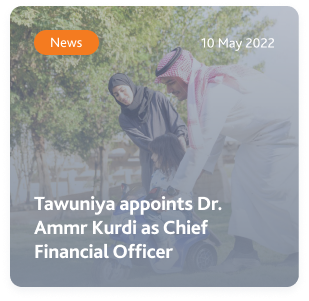
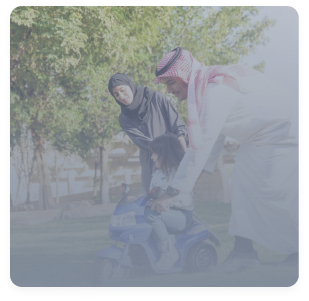
Add files via upload

diff --git a/src/App.js b/src/App.js
@@ -22,7 +22,6 @@ import firstimage from './image/firstimage.png'
 import secondimage from './image/secondimage.png'
 import thirdimage from './image/thirdimage.png'
 import ithra from './image/ithra.png'
-import rarrow from './image/rarrow.png'
 import Tawuniya from './image/Tawuniya.png'
 import  tlogo from './image/tlogo.png'
 import vitality from './image/Vitality.png'
@@ -32,13 +31,15 @@ import twodayago from './image/twodayago.png';
 import twoweekago from './image/twoweekago.png'
 import tenmay from './image/tenmay.png'
 import weekago from './image/weekago.png'
-
+import rarrow from './image/rarrow.png'
 import Listcard from './Components/card';
 import Listcardtwo from './Components/health';
 import Listcardthree from './Components/FAQ';
+import Listcardfive from './Components/webfooter';
 
 import './Components/card.css'
 import './Components/health.css'
+import './Components/webfooter.css'
 
 function App() {
   const card = [{Title:'Public Liability Insurance', Imagename:Persondollar, Nameforid:'publicliability' }, {Title:'Property Insurance: All Risk', Imagename:Shieldhome, Nameforid:'propertyinsurance'}, {Title:'Property Insurance: Fire And Additional Perils', Imagename:Shieldfire, Nameforid:'fireadd'}, 
@@ -51,6 +52,7 @@ const health = [{Title:'Boost Employee Retention', Imagename:hand , para:'Health
 
 const question = ['What is insurance fraud?','What kind of people/Organizations commits insurance fraud?','What is fraud vs. Mistake?','How does fraud impact you?','What is medical fraud unit?','What are some examples of insurance fraud/Abuse?','What are we doing to prevent fraud?','Shall I get a reward for reporting medical insurance fraud?']
 
+const website =[{Imagename:tenmay,date:'10 May  2022' , news:"Tawuniya appoints Dr. Ammr Kurdi as Chief Financial Officer",Nameforid:'tenmay'},{Imagename:twodayago,date:'2 days ago',news:'Tawuniya is the first company in the Kingdom to install vehicle insurance policies',Nameforid:'twoday'},{Imagename:weekago,date:'week ago',news:'Tawuniya launches Covid-19 Travel Insurance program',Nameforid:'week'},{Imagename:twoweekago,date:'2 weeks ago',news:'“Tawuniya Vitality” changes the healthy lifestyle of the Saudi Society New program is a first for the Kingdom, the Middle East and North Africa',Nameforid:'twoweek'},{Imagename:tenmay,date:'10 May  2022' , news:'Tawuniya appoints Dr. Ammr Kurdi as Chief Financial Officer',Nameforid:'tenmay'}]
 return(
 <div>
 
@@ -102,7 +104,7 @@ return(
   </div>
 <div className='wholebanner'>
   
-    <div className='blue'>
+<div className='blue'>
       <img className='bannerimage' src={firstimage} alt=''/>
       <div className='taw'>Tawuniya</div>
       <img className='ithra' src={ithra} alt=''/>
@@ -164,13 +166,11 @@ We provide the best and trusted products for our customers
 </div>
 
 <div className='lastboximage'>
-  <img className='lastimage' src={tenmay} alt=''/>
-  <img className='lastimage' src={twodayago} alt=''/>
-  <img className='lastimage' src={weekago} alt=''/>
-  <img className='lastimage' src={twoweekago} alt=''/>
-  <img className='lastimage' src={tenmay} alt=''/>
-
-
+{website.map(({Imagename,date,news,Nameforid},index) => {
+    return(
+    <Listcardfive  key={index} imagename={Imagename} Date={date} News={news} Idname={Nameforid} />
+    );
+    })}
 </div>
 
 

diff --git a/src/App.css b/src/App.css
@@ -22,7 +22,7 @@ body{
   width: 560px;
   height: 140px;
   font-weight: 700;
-  font-size: 44px;
+  font-size: 35px;
   position: relative;
   bottom: 14px;
 }
@@ -294,30 +294,28 @@ width: 150px;
   display: flex;
 }
 .tnow{
-  font-size: x-large;
+  font-size: xx-large;
   font-weight: 600;
   margin-top: 30px;
   margin-left: 100px;
   margin-bottom: 10px;
 }
 .highlights{
-  font-size: x-large;
+  font-size:xx-large;
   font-weight: 600;
   margin-top: 30px;
   margin-bottom: 10px;
   color: var(--neutral-neutral-03, #B3B9C3);
 }
 .lastonelinepara{
+  font-size: smaller;
   margin-left: 100px;
   margin-bottom: 30px;
 }
 .lastboximage{
+  position: absolute;
+  padding-left: 80px;
   display: flex;
-  flex-direction: row;
-  margin-left: 100px;
-  margin-bottom: 50px;
-}
-.lastimage{
-  width: 200px;
-  height: 200px;
+  flex-wrap: wrap;
+ padding-bottom: 30px;
 }

diff --git a/src/Components/webfooter.css b/src/Components/webfooter.css
@@ -1,0 +1,49 @@
+.last{
+    
+    width: 220px;
+    height: 220px;
+}
+.imagepic{
+    position: relative;
+    width: 220px;
+    height: 220px;
+}
+.Dates{
+    color: white;
+    font-size:11px ;
+    position: relative;
+    margin-top: -200px;
+    margin-left: 140px;
+}
+.new{
+    margin-top: -20px;
+    margin-left: 20px;
+    font-size:12px;
+    position: relative;
+   padding: 3px;
+    align-items: center;
+    color: white;
+    width: 30px;
+    border-radius: 10px;
+    background: var(--orange-orange, #F47B20);
+    margin-bottom: 10px;
+}
+.news{
+    margin-top: 120px;
+    color: white;
+    font-weight: 700;
+    font-size: 13px;
+    margin-left: 20px;
+position: relative;
+width: 180px;
+}
+#tenmay{
+    width: 150px;
+}
+#twoday{
+   margin-top: 100px;
+   width: 180px;
+}
+#twoweek{
+    margin-top: 68px;
+}

diff --git a/src/Components/webfooter.js b/src/Components/webfooter.js
@@ -1,0 +1,20 @@
+import React from "react";
+import './webfooter.css'
+
+const Listcardfour = ({imagename,Date,News,Idname}) => {
+    return(
+       <div className="last" >
+      <img className='imagepic' src={imagename} alt=""/>
+      <div className="Dates">{Date}</div>
+        <div className="new">News</div>
+            <div className="news"id={Idname}>{News}</div>
+
+</div>
+           
+        
+              
+       
+     
+    );
+}
+export default Listcardfour;

diff --git a/src/Components/FAQ.js b/src/Components/FAQ.js
@@ -4,8 +4,7 @@ import './FAQ.css'
 
 const Listcardthree= ({whatquestion}) => {
     return(
-<div className="questionbox">
-    <div className="plus"><img src={plus} alt=""/></div>
+<div className="questionbox"><img src={plus} alt=""/>
     <div className="whatquestion">{whatquestion}</div>
 
 </div>

diff --git a/src/Components/banner.js b/src/Components/banner.js
@@ -1,0 +1,10 @@
+import React from "react";
+
+const Listcardfour=({Mainclass})=>{
+    return(
+        <div className={Mainclass}>
+
+        </div>
+    );
+}
+export default Listcardfour;

diff --git a/src/Components/banner.css b/src/Components/banner.css
@@ -1,0 +1,4 @@
+.firstimage{
+    background-image: url(/src//image/firstimage.png);
+   
+}
